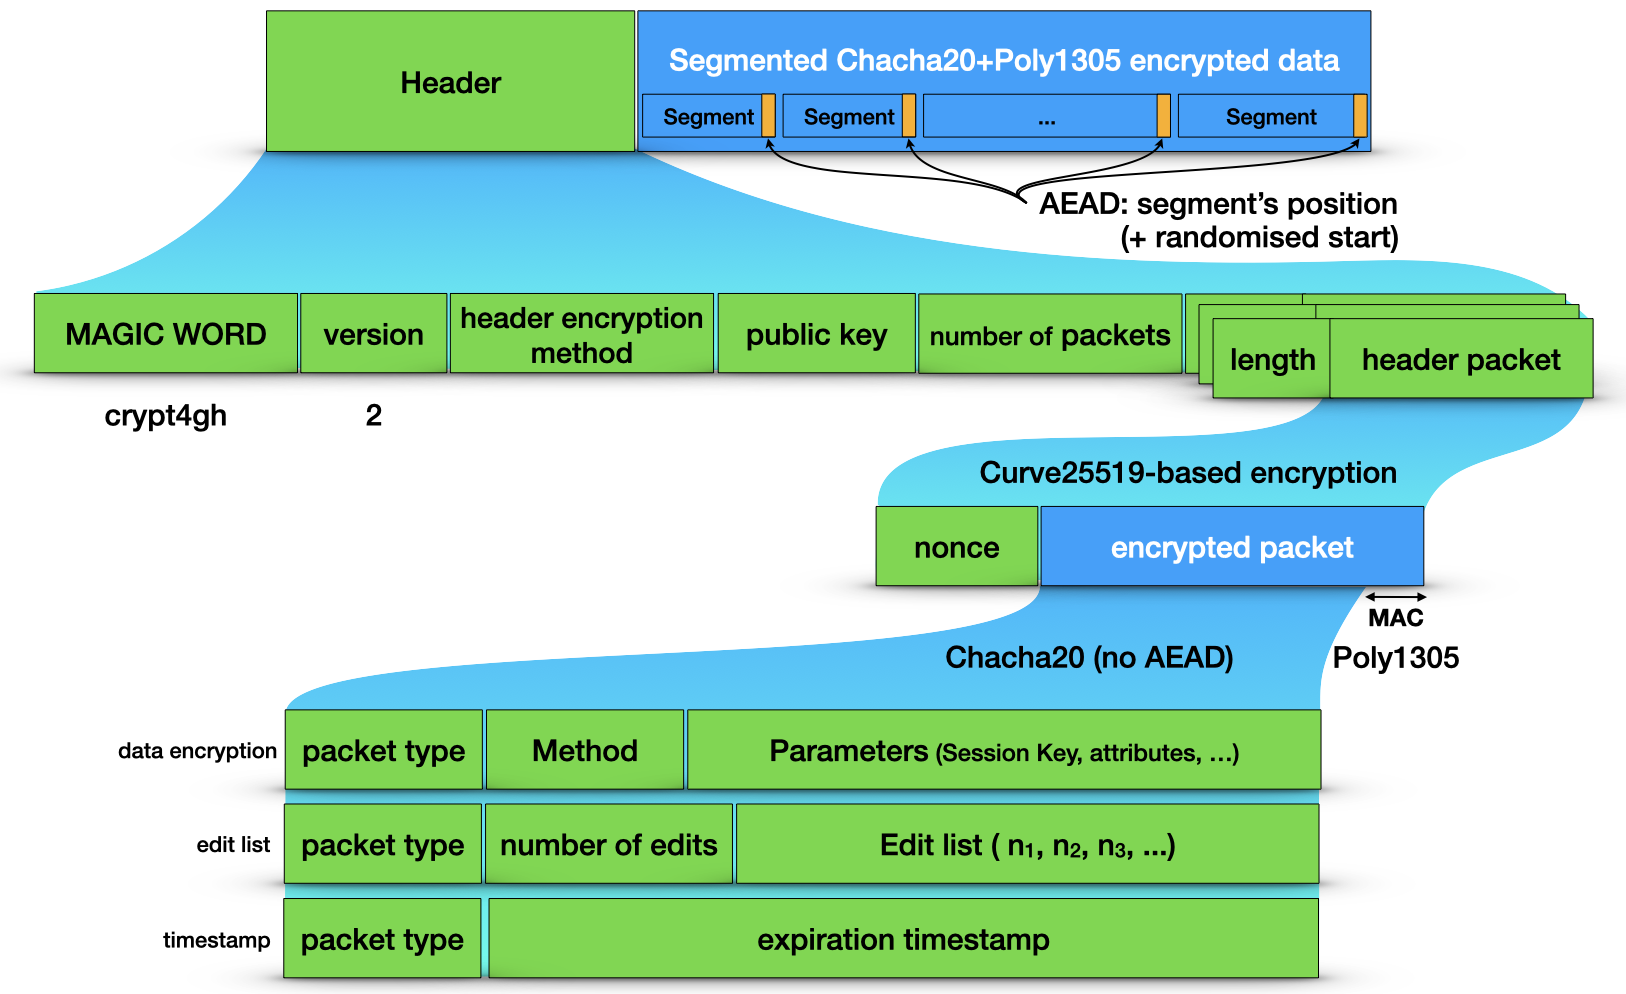
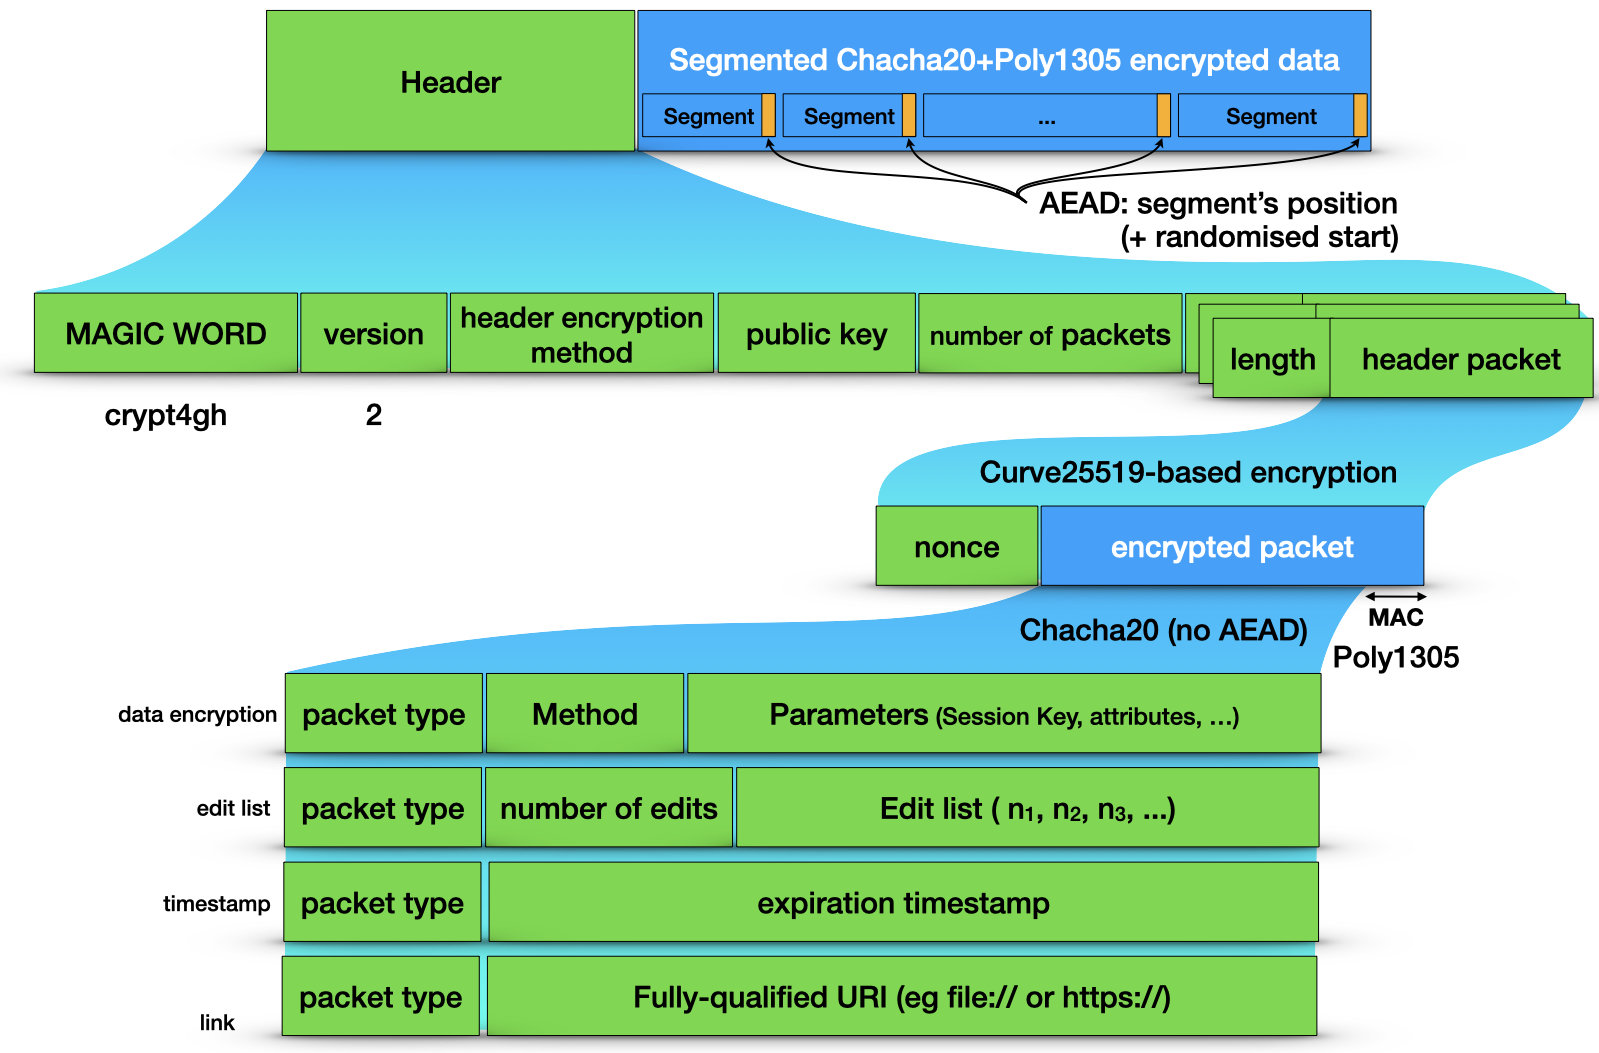
Adding docs for simple URL fetcher

diff --git a/docs/encryption.rst b/docs/encryption.rst
@@ -41,3 +41,5 @@ We hoist up the writer's public key in version 2, and therefore only one writer 
 We also introduce an expiration packet. We are aware that controlling expiration is a complex task, sometimes not even feasable since you can set the date and time as preferred. This package does check againt the current date/time and discard the file is the header packet has expired.
 
 A random initial sequence number (of 8 bits) is generated as the expiration timestamp.
+
+Finally, the ``link`` packet allows to _not_ attach the payload and only point to it. Specific code must be written to retrieve the payload and we only include a simple URI fetcher (ie we can use URI of the form ``file:///absolute/path/to/file`` or ``https://fqdn/path/to/file`` for example).
